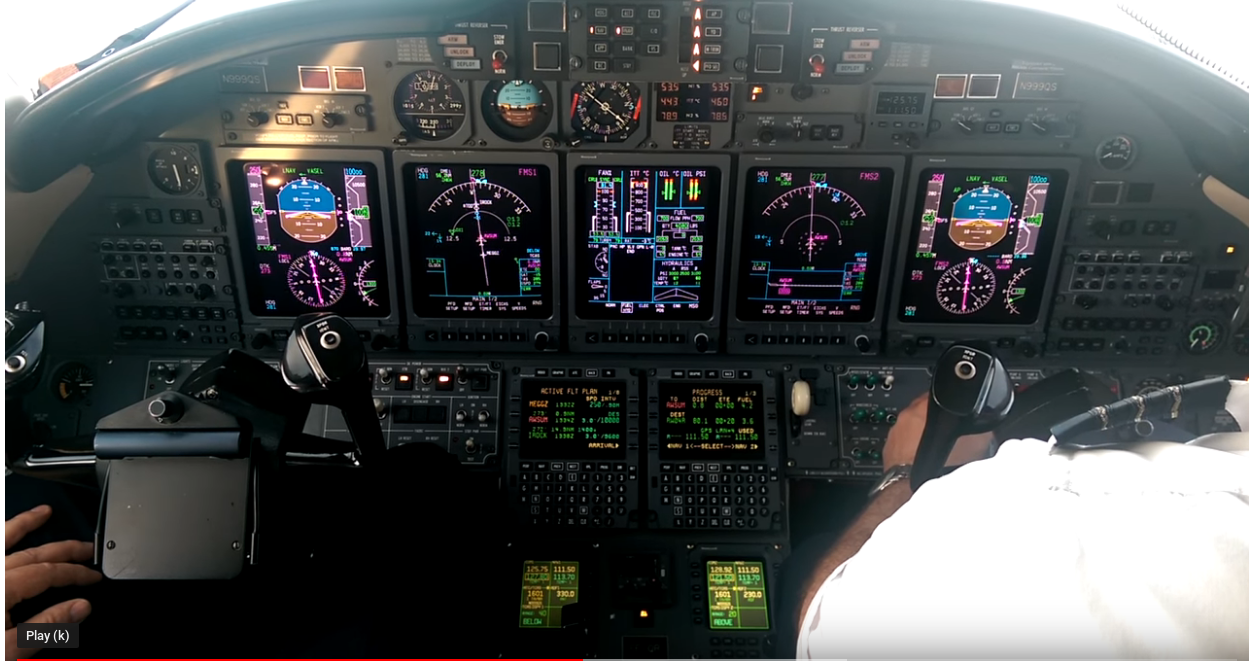
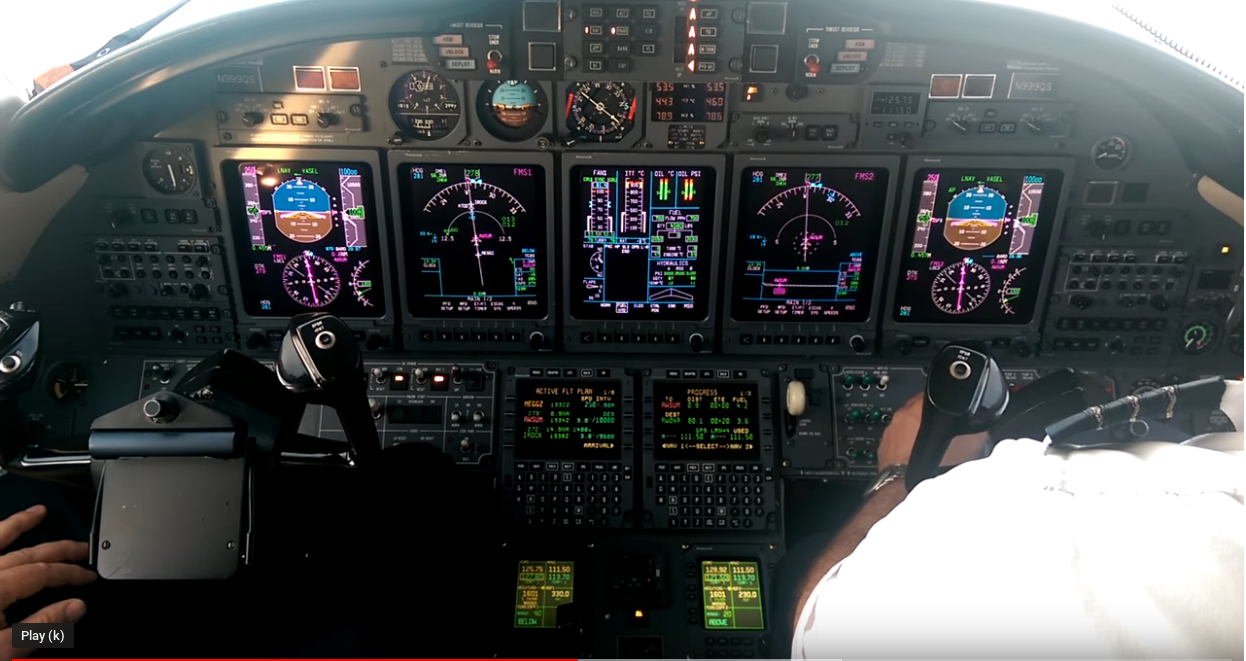
Modified README.md with screenshots

diff --git a/README.md b/README.md
@@ -1,13 +1,20 @@
-The purpose of this project is to build a 1:1 home cockpit for flying the Cessna Citation X aircraft in Flightgear. Flightgear is an open-source software (http://home.flightgear.org/).  
+![In progress](https://img.shields.io/badge/status-in%20progress-orange.svg)
+
+The purpose of this project is to build a 1:1 home cockpit for flying the Cessna Citation X aircraft in Flightgear.  
+Flightgear is an open-source software that you can download on http://home.flightgear.org.  
 
 The Citation X that I use is the outstanding version developped by the PAF team (Patrouille de France).  
- - forum (in french) : http://equipe-flightgear.forumactif.com/
- - repository : https://sourceforge.net/projects/pafteam/
+ - forum (in french) : http://equipe-flightgear.forumactif.com/  
+ - repository : https://sourceforge.net/projects/pafteam/  
 
-My project covers :
- - the drawings used for cutting the MDF sheets and build the cockpit,
- - the electronic schemas and PCB,
- - the code used in the microcontrolers (ESP-32 and Arduino Leonardo/Pro Micro) for the inputs and outpus,
- - the code used in the Rasperry Pi Zero W for displaying the canvas on the screen.
+Below are screenshots from flightgear and from a Youtube video showing the cockpit.  
+![Screenshot from flightgear](https://github.com/adessein/citationx-cockpit/blob/master/Mechanics/Screenshots/overview800.jpg)  
+![Screenshot from youtube video](https://github.com/adessein/citationx-cockpit/blob/master/Mechanics/Screenshots/cockpitYoutube.jpg)  
+
+My project covers :  
+ - the drawings used for cutting the MDF sheets and build the cockpit,  
+ - the circuit diagrams and PCBs,  
+ - the code used in the microcontrollers (ESP-32 and Arduino Leonardo/Pro Micro) for the inputs and outputs,  
+ - the code used in the Raspberry Pi Zero W for displaying the canvas on the screen.  
  
  In the folder Electronics, you can find the backup files from EasyEDA.com. The project is available on https://easyeda.com/arnaud.dessein
